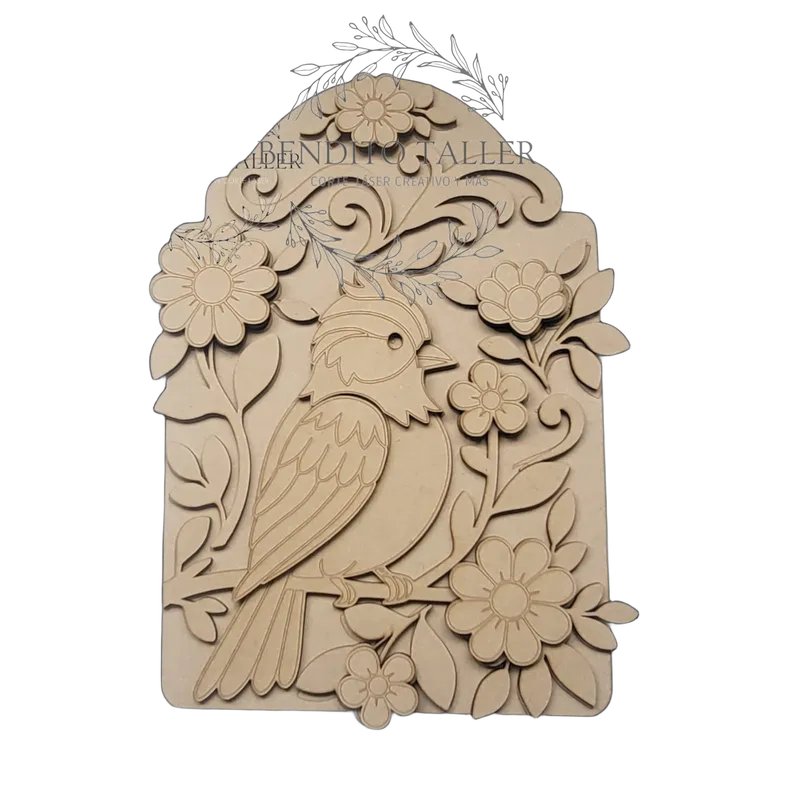
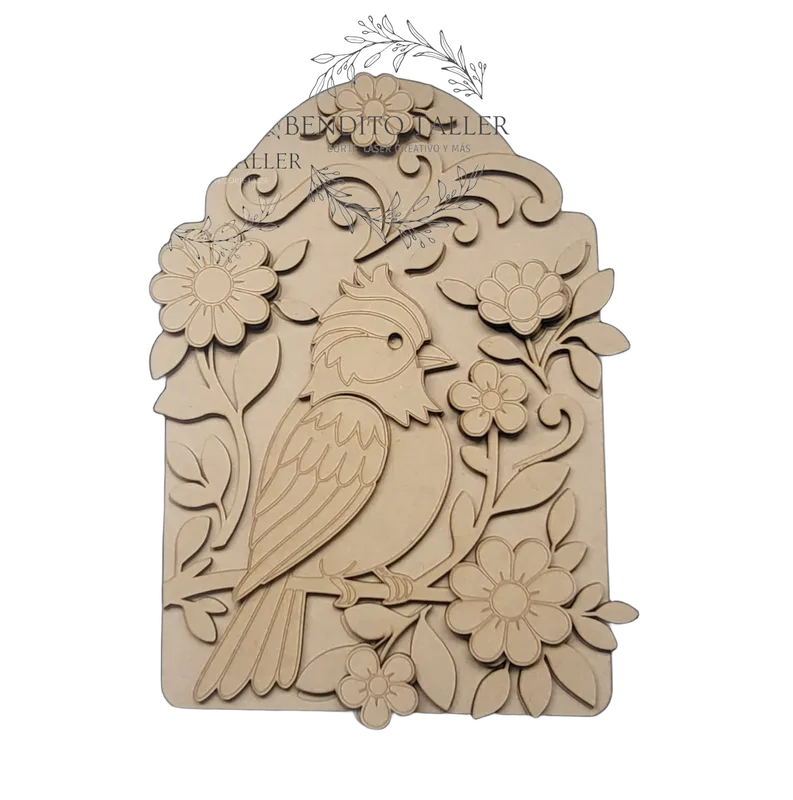
Actualizar contenido desde Gestor de Productos

Changed region(s): [[0.3329, 0.0, 0.6658, 0.375]]

diff --git a/cart-shared.js b/cart-shared.js
@@ -137,7 +137,11 @@ const gruposCombinables = [
             "comp4",
             "comp5",
             "comp7",
-            "comp8"
+            "comp8",
+            "comp6"
+        
+        
+        
         
         
         
@@ -505,7 +509,7 @@ const PRODUCT_CATEGORY_MAPPING = {
     "comp7": ["deco"],
     "comp4": ["deco"],
     "comp5": ["deco"],
-    "comp6": ["otros-insumos"],
+    "comp6": ["deco"],
 "setanillos1": ["deco"],
     "setanillos2": ["deco"],
     "setanillos3": ["deco"],

diff --git a/productos.js b/productos.js
@@ -4470,5 +4470,15 @@ const productos = {
         "medida_original": "30 cm",
         "unitario": 3800,
         "mayor": 3000
+    },
+    "comp6": {
+        "codigo": "Comp6",
+        "nombre": "Comp6",
+        "imagen": "img/comp6.webp",
+        "tipo": "simple",
+        "descripcion": "Composición  en capas",
+        "medida_original": "30 cm",
+        "unitario": 4500,
+        "mayor": 3700
     }
 };
